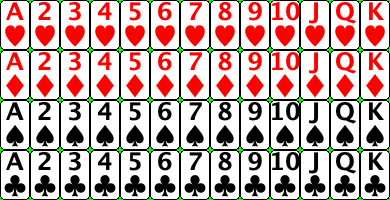
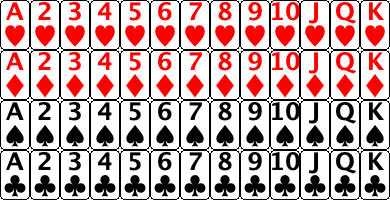
More DIY Java Games - Solitaire 13-15

diff --git a/Bakers Dozen/src/jonathan/furminger/bakersdozen/BakersDozen.java b/Bakers Dozen/src/jonathan/furminger/bakersdozen/BakersDozen.java
@@ -1,0 +1,45 @@
+package jonathan.furminger.bakersdozen;
+
+import java.awt.EventQueue;
+
+import javax.swing.JFrame;
+import javax.swing.UIManager;
+import javax.swing.UnsupportedLookAndFeelException;
+
+import jonathan.furminger.mycomponents.TitleLabel;
+
+public class BakersDozen extends JFrame {
+
+	private static final long serialVersionUID = 1L;
+
+	public BakersDozen() {
+		initGUI();
+		setTitle("Baker's Dozen");
+		setResizable(false);
+		pack();
+		setLocationRelativeTo(null);
+		setVisible(true);
+		setDefaultCloseOperation(EXIT_ON_CLOSE);
+	}
+	
+	public static void main(String[] args) {
+		String className = UIManager.getCrossPlatformLookAndFeelClassName();
+		try {
+			UIManager.setLookAndFeel(className);
+		} 
+		catch (Exception e) {}
+		
+		EventQueue.invokeLater(new Runnable() {
+			public void run() {
+				new BakersDozen();
+			}
+		});
+			
+	}
+	
+	private void initGUI() {
+		TitleLabel titleLabel = new TitleLabel("Baker's Dozen");
+		
+	}
+
+}

diff --git a/Bakers Dozen/src/jonathan/furminger/bakersdozen/DrawDeckImage.java b/Bakers Dozen/src/jonathan/furminger/bakersdozen/DrawDeckImage.java
@@ -22,10 +22,10 @@ public class DrawDeckImage {
 		int imageWidth = cardWidth * 13;
 		int imageHeight = cardHeight * 4;
 		
-		BufferedImage image = new BufferedImage(imageWidth, imageHeight, BufferedImage.TYPE_INT_RGB);
+		BufferedImage image = new BufferedImage(imageWidth, imageHeight, BufferedImage.TYPE_INT_ARGB);
 		
 		Graphics g = image.getGraphics();
-		g.setColor(Color.GREEN);
+		g.setColor(new Color(0, 0, 0, 0));
 		g.fillRect(0, 0, imageWidth, imageHeight);
 		
 		Font font = new Font(Font.DIALOG, Font.BOLD, 24);
